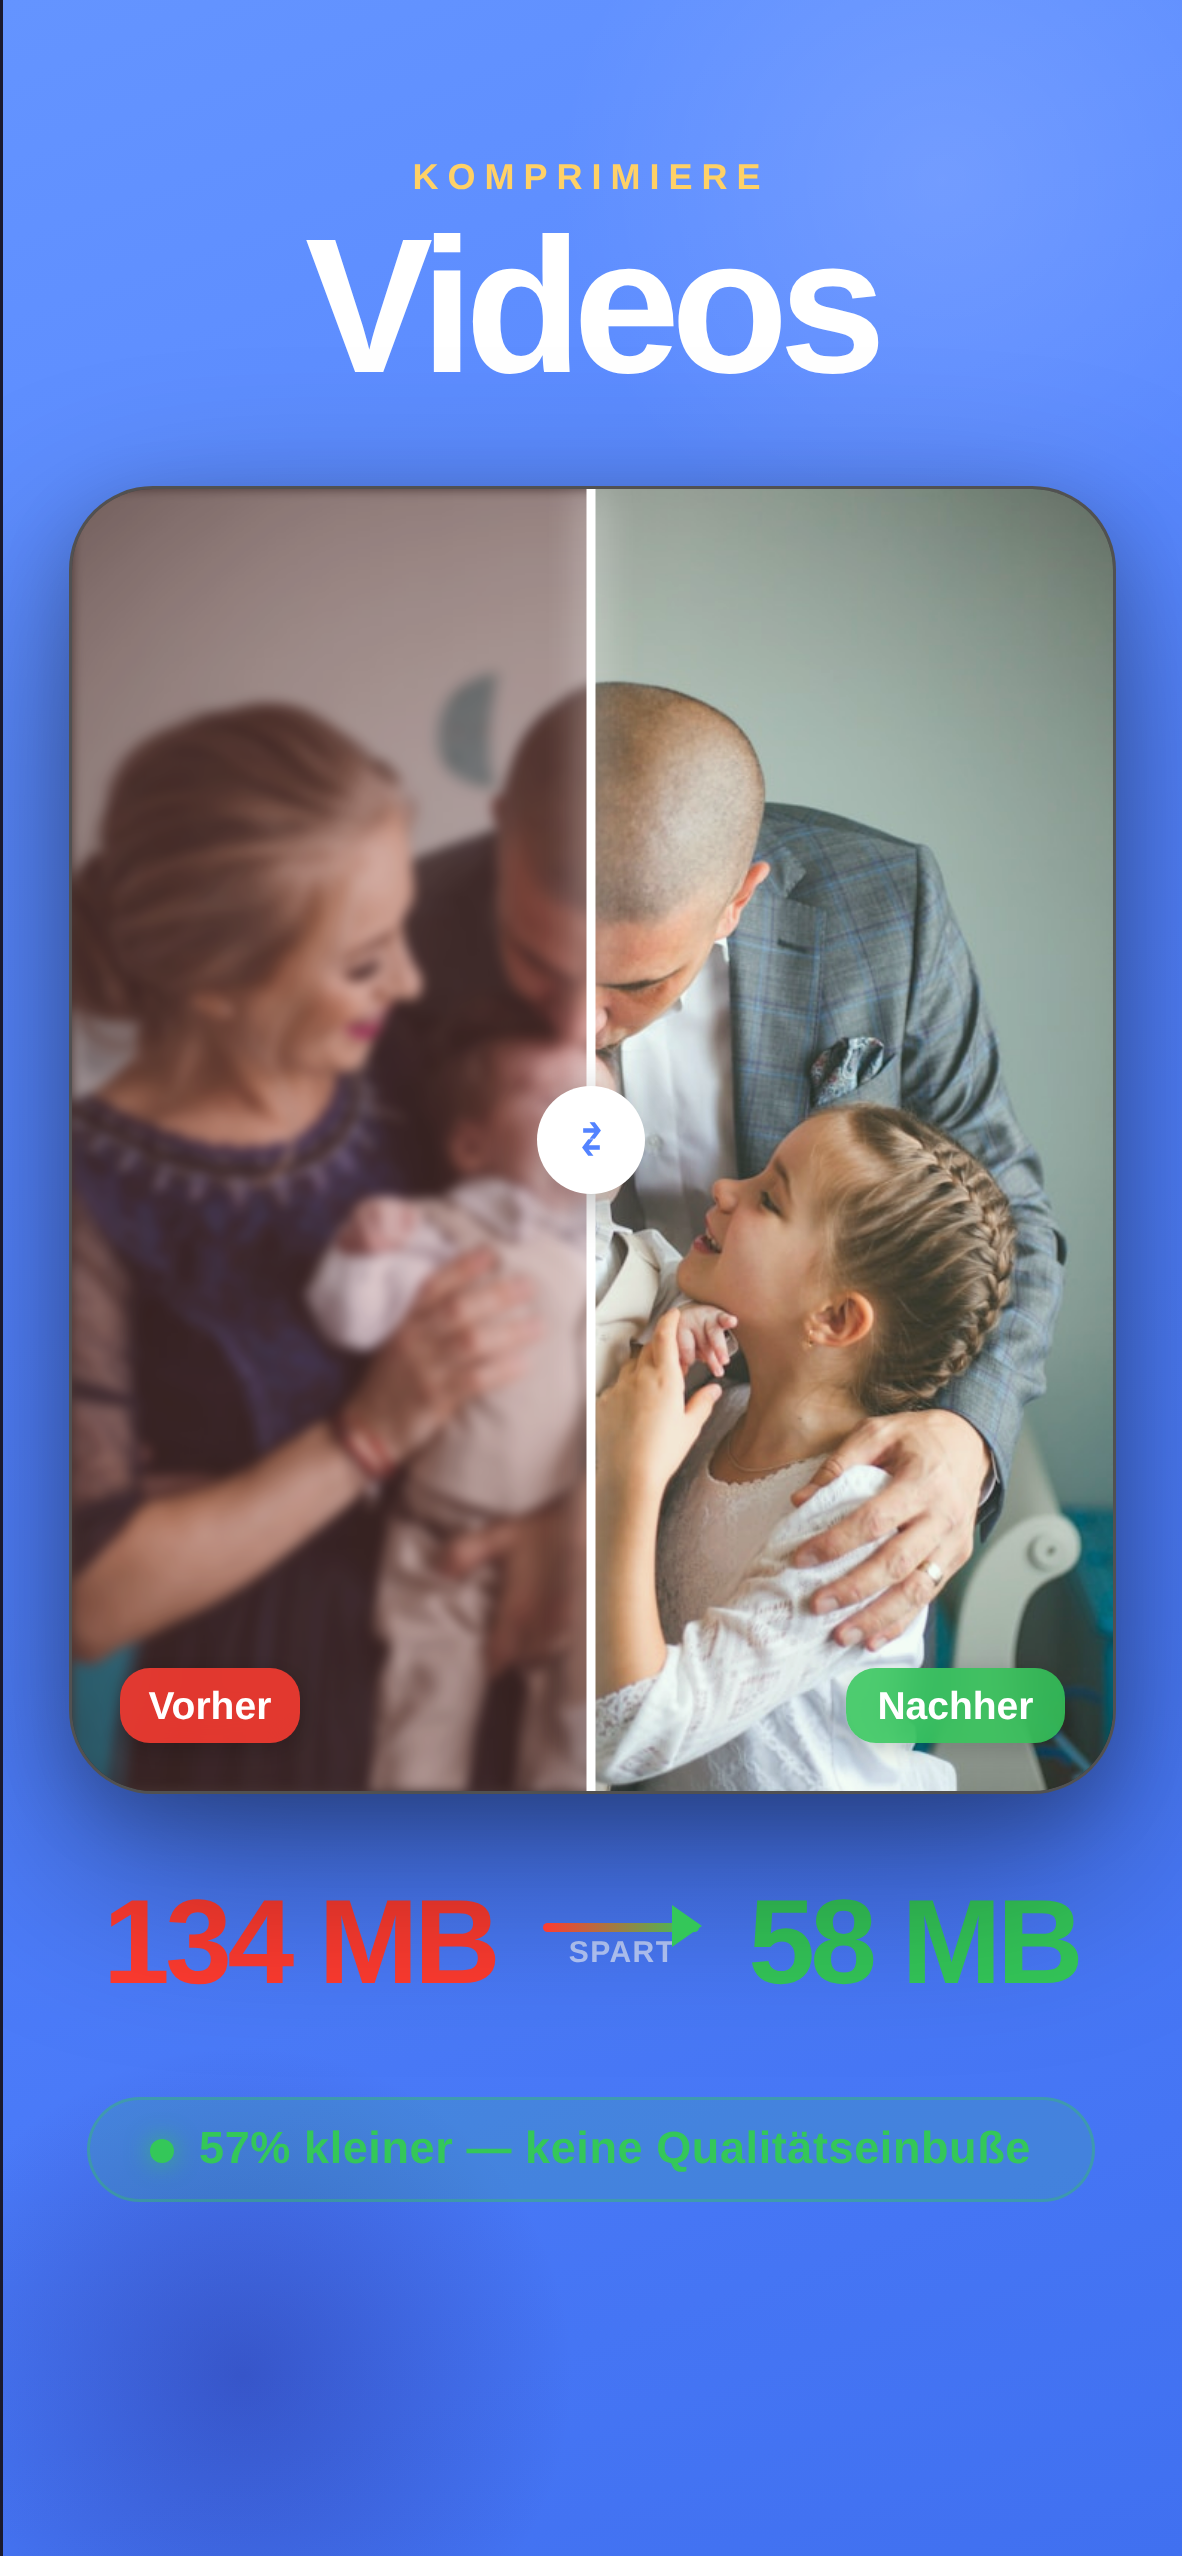
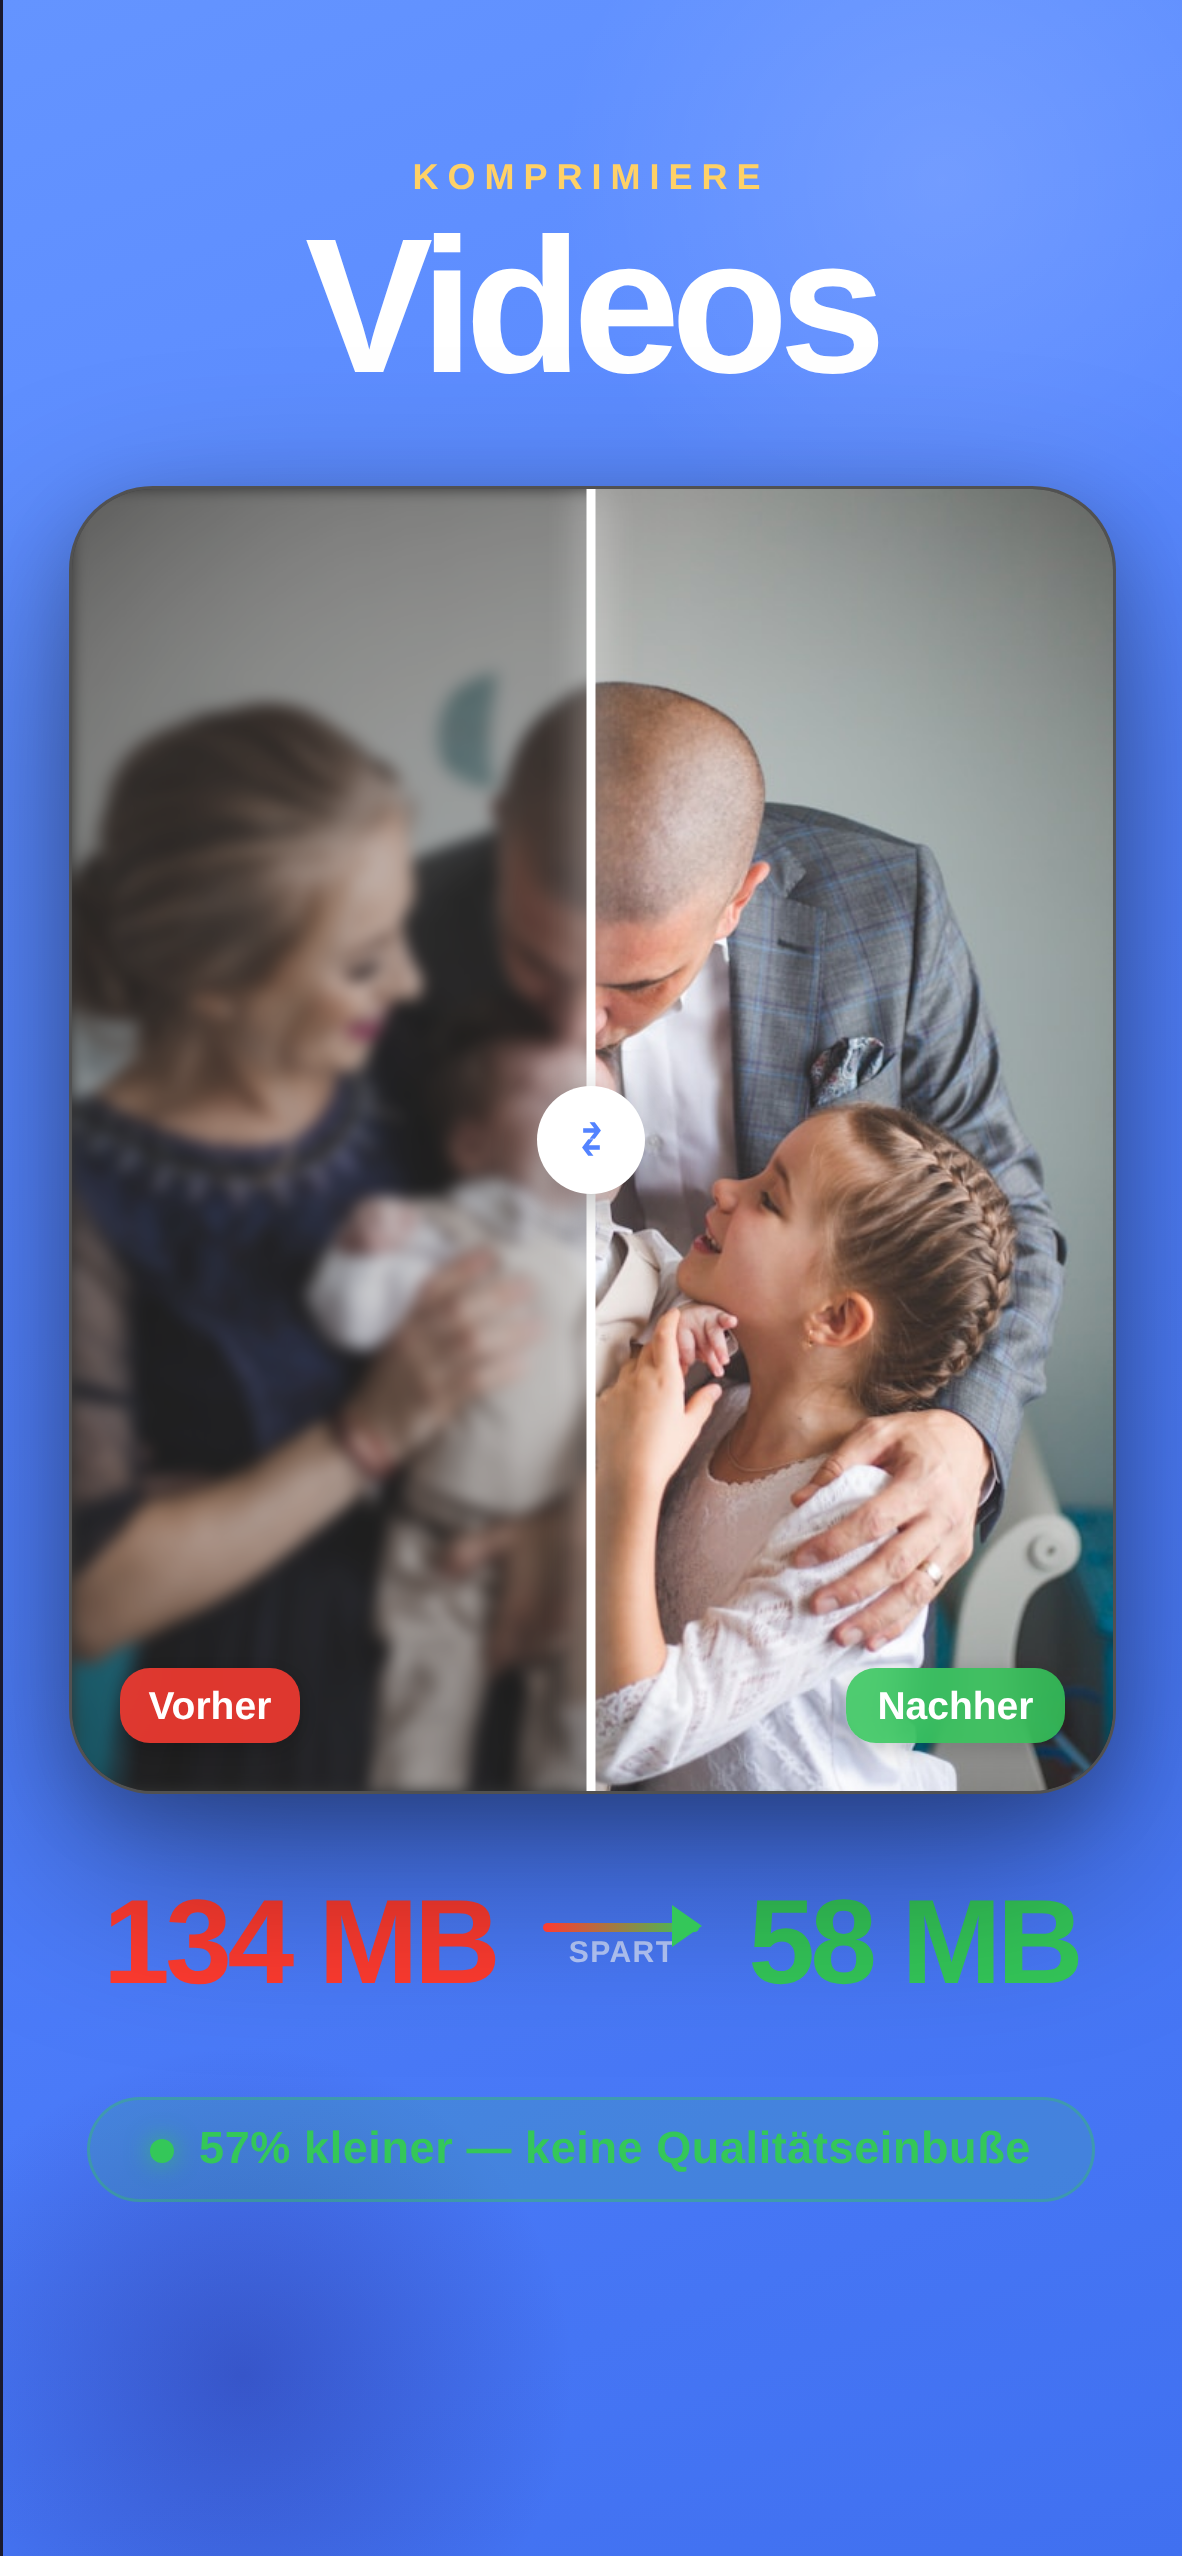
fix: slide4 Split — overflow:hidden statt clip-path, kein Blur-Bleed auf rechter Seite

Changed region(s): [[0.0609, 0.2782, 0.4873, 0.7109], [0.3655, 0.68, 0.3959, 0.7109], [0.2437, 0.4945, 0.2741, 0.5254]]

diff --git a/frontend/assets/screenshot_slide4.html b/frontend/assets/screenshot_slide4.html
@@ -57,39 +57,30 @@
     margin-bottom: 28px;
   }
 
-  /* Left half — blurred/low quality (original large) */
+  /* Split: overflow:hidden Container verhindert Blur-Bleed */
   .half-left {
     position: absolute; top: 0; left: 0;
     width: 50%; height: 100%;
     overflow: hidden;
+    isolation: isolate;
   }
   .half-left img {
     position: absolute; top: 0; left: 0;
-    width: 200%; height: 100%;
+    width: 200%; max-width: none; height: 100%;
     object-fit: cover;
-    filter: blur(2px) saturate(0.75) brightness(0.88);
+    filter: blur(2.5px) saturate(0.65) brightness(0.83);
   }
-  /* dim overlay */
-  .half-left::after {
-    content: ''; position: absolute; inset: 0;
-    background: rgba(255,59,48,0.1);
-  }
-
-  /* Right half — sharp (compressed) */
   .half-right {
     position: absolute; top: 0; right: 0;
     width: 50%; height: 100%;
     overflow: hidden;
+    isolation: isolate;
   }
   .half-right img {
     position: absolute; top: 0; right: 0;
-    width: 200%; height: 100%;
+    width: 200%; max-width: none; height: 100%;
     object-fit: cover;
-    filter: saturate(1.08) brightness(1.02);
-  }
-  .half-right::after {
-    content: ''; position: absolute; inset: 0;
-    background: rgba(52,199,89,0.06);
+    /* vollständig scharf — kein Filter */
   }
 
   /* Center divider line */
@@ -198,7 +189,7 @@
     <!-- Split image -->
     <div class="split-card">
       <div class="half-left">
-        <img src="https://images.unsplash.com/photo-1679043871333-b785bd519ad3?crop=entropy&cs=srgb&fm=jpg&w=700&q=60" />
+        <img src="https://images.unsplash.com/photo-1679043871333-b785bd519ad3?crop=entropy&cs=srgb&fm=jpg&w=700&q=85" />
       </div>
       <div class="half-right">
         <img src="https://images.unsplash.com/photo-1679043871333-b785bd519ad3?crop=entropy&cs=srgb&fm=jpg&w=700&q=85" />
